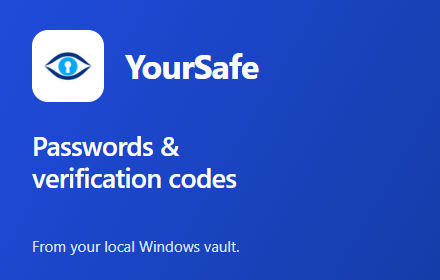
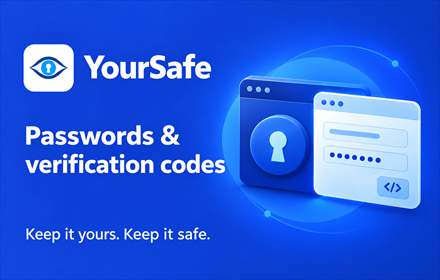
Finalize Chrome Web Store promos and site verification

diff --git a/website/google481cfd7a3ecb26f2.html b/website/google481cfd7a3ecb26f2.html
@@ -1,0 +1,1 @@
+google-site-verification: google481cfd7a3ecb26f2.html

diff --git a/browser-extension/store-assets/chrome/README.md b/browser-extension/store-assets/chrome/README.md
@@ -6,6 +6,7 @@ Prepared on 2026-10-13. Upload these PNGs in the Chrome Web Store Developer Dash
 | --- | --- | --- |
 | Store icon | [icon-128.png](icon-128.png) | 128 × 128 |
 | Small promotional tile | [promo-440x280.png](promo-440x280.png) | 440 × 280 |
+| Marquee promotional tile | [marquee-1400x560.png](marquee-1400x560.png) | 1400 × 560 |
 | Screenshot 1: matching accounts | [01-choose-account-1280x800.png](01-choose-account-1280x800.png) | 1280 × 800 |
 | Screenshot 2: desktop approval | [02-desktop-approval-1280x800.png](02-desktop-approval-1280x800.png) | 1280 × 800 |
 | Screenshot 3: verification code | [03-verification-code-1280x800.png](03-verification-code-1280x800.png) | 1280 × 800 |
@@ -18,5 +19,9 @@ All accounts are fake `example.test` accounts in a marked disposable vault. The 
 The capture session passed 12 focused assertions covering account selection and unrelated-site exclusion, real desktop approval, verification-code countdown, correct username/password fill, a masked password field, and no automatic form submission. All six image dimensions were checked and the images were visually reviewed. Temporary development registrations were restored and compared with their baseline.
 
 The icon comes from the existing app logo; the promotional tile uses the same logo. Local raw captures, temporary scripts, browser profiles, disposable vault files, and diagnostic reports are not part of this upload pack.
+
+The marquee tile was added on 2026-10-14 using built-in ImageGen with the app logo and small promotional tile as brand references. Its computer/browser artwork is a conceptual brand illustration, not an application screenshot. The final PNG is exactly 1400 × 560 pixels, RGB 24-bit without alpha. The generation prompt is saved in [marquee-1400x560.prompt.txt](marquee-1400x560.prompt.txt). No new WinUI session was captured for this promotional image.
+
+Both promotional tiles were edited with built-in ImageGen on 2026-10-14. The final approved headline is `Passwords & verification codes` and the supporting line is `Keep it yours. Keep it safe.` The marquee keeps its original composition. The small tile adds a matching conceptual vault/browser illustration, compact brand header and blue radial glow. Both final files are RGB 24-bit PNGs without alpha at their listed dimensions. The final prompts are saved in [promo-copy-edit.prompt.txt](promo-copy-edit.prompt.txt).
 
 Builds and extension tests passed during image preparation. These images do not establish store approval or production installer/signing qualification. The extension requires YourSafe for Windows with matching Native Messaging registration; see the [extension README](../../README.md) for the integration and release requirements.

diff --git a/website/README.md b/website/README.md
@@ -21,7 +21,7 @@ Open [the local preview](http://127.0.0.1:4173/home.html). Basic servers such as
 3. In **Actions**, select **Publish YourSafe website**, then **Run workflow** on the default branch.
 4. Open the URL reported by the deployment. The requested public routes are [YourSafe home](https://lmnhutw.github.io/YourSafe/home) and [the login demo](https://lmnhutw.github.io/YourSafe/demo-login); the workflow output is authoritative for the deployment base URL.
 
-The workflow is manual, so editing or pushing app code does not publish a website. It uploads `home.html`, a generated `index.html` copy for the root URL, `styles.css`, `navigation.js`, `script.js`, `demo-login.html`, `demo-login.js`, and `assets/` only; it does not build or publish Windows packages. Page links omit `.html`, while source files retain the extension for correct HTML serving. Deployment status and the configured Pages URL must be checked in GitHub Actions.
+The workflow is manual, so editing or pushing app code does not publish a website. It uploads `home.html`, `privacy.html`, a generated `index.html` copy for the root URL, `styles.css`, `navigation.js`, `script.js`, `demo-login.html`, `demo-login.js`, `google481cfd7a3ecb26f2.html` for Google site verification, and `assets/` only; it does not build or publish Windows packages. Page links omit `.html`, while source files retain the extension for correct HTML serving. Deployment status and the configured Pages URL must be checked in GitHub Actions.
 
 Reference: [GitHub publishing-source documentation](https://docs.github.com/en/pages/getting-started-with-github-pages/configuring-a-publishing-source-for-your-github-pages-site).
 
